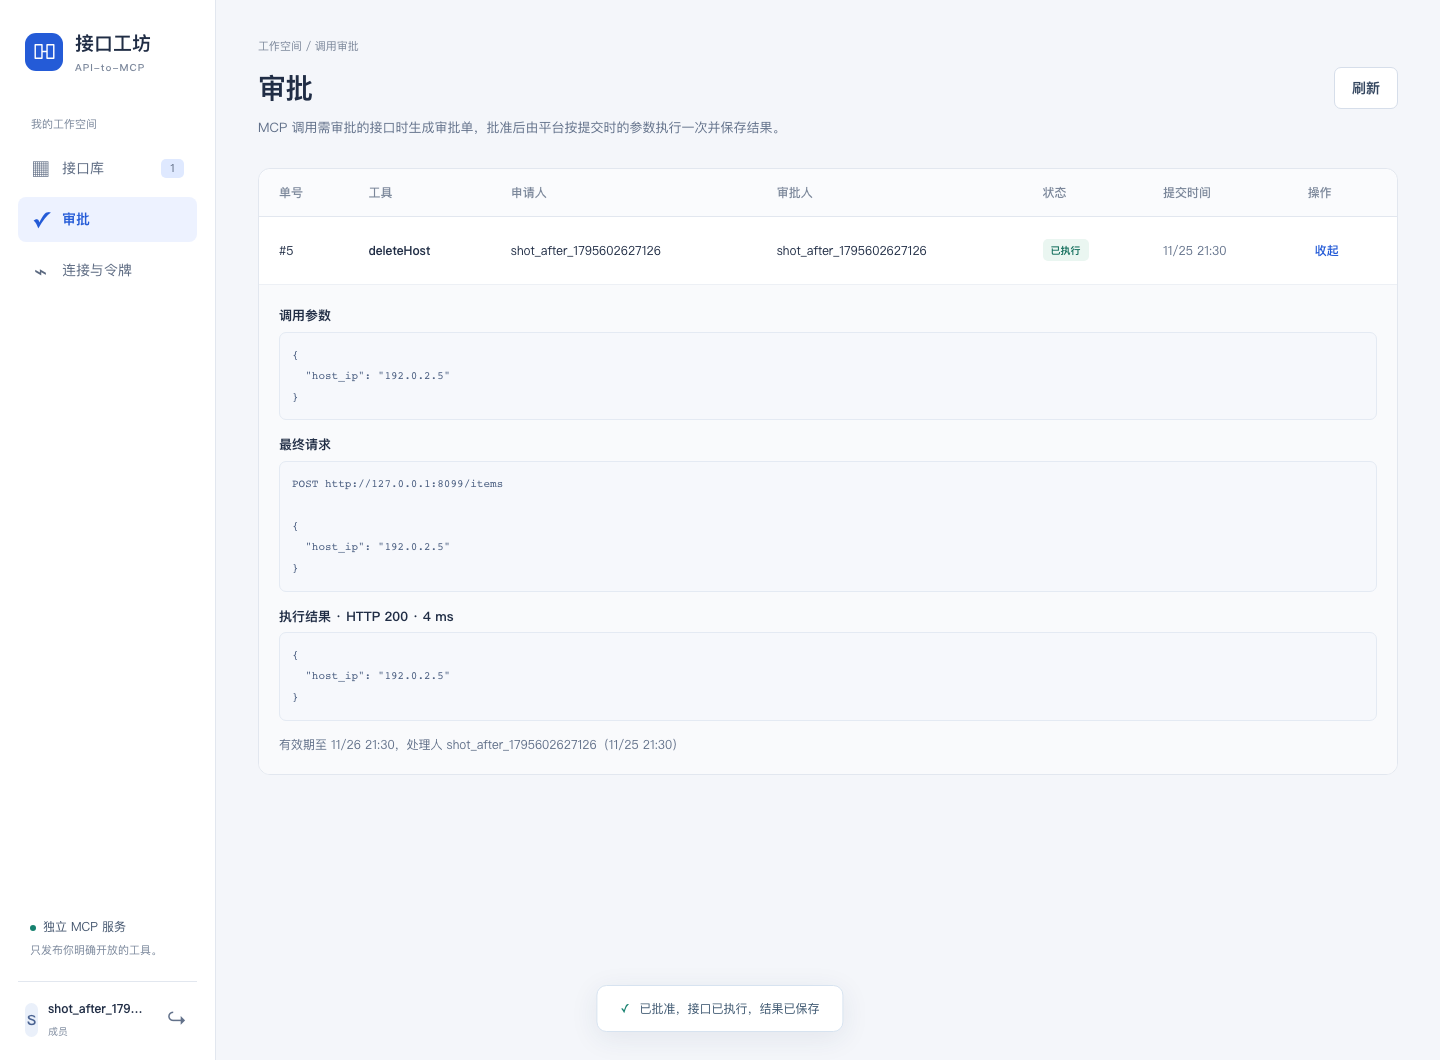
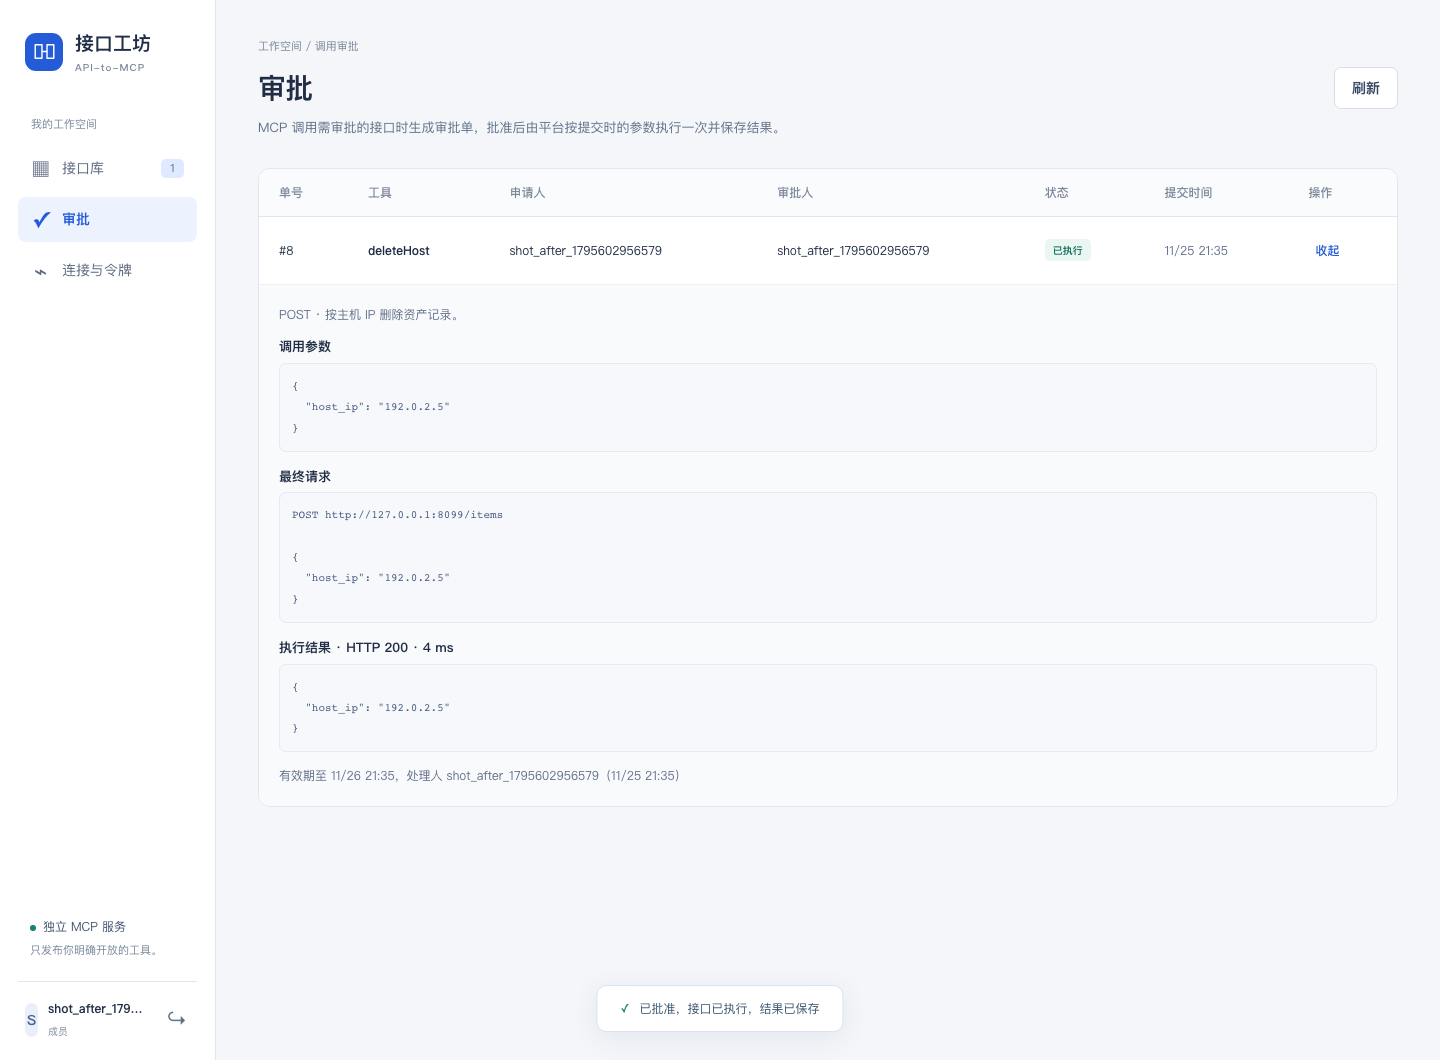
区分审批执行的未执行、结果未知与上游错误状态
请求发出后的失败标为结果未知，避免误导重新提交；审批列表不再读取加密参数和结果；详情向审批人展示方法与用途描述；补充签名校验与深链测试。

diff --git a/web/src/App.vue b/web/src/App.vue
@@ -28,7 +28,9 @@ const approvalStatus: Record<Approval["status"], [string, string]> = {
   rejected: ["已拒绝", "neutral"],
   executing: ["执行中，结果未知", "warning"],
   executed: ["已执行", "success"],
-  failed: ["未执行成功", "failure"],
+  upstream_error: ["已执行，上游返回错误", "failure"],
+  unknown: ["结果未知", "warning"],
+  failed: ["未执行", "failure"],
 };
 const allowedOrigins = ref<string[]>([]);
 const search = ref("");
@@ -309,8 +311,12 @@ async function decideApproval(item: Approval, approve: boolean) {
     });
     openApproval.value = detail;
     await loadApprovals();
-    notify(detail.status === "executed" ? "已批准，接口已执行，结果已保存"
-      : detail.status === "failed" ? "已批准，但接口未执行成功，请查看原因" : "已拒绝该审批单");
+    notify({
+      executed: "已批准，接口已执行，结果已保存",
+      upstream_error: "已批准并执行，上游返回错误，请查看结果",
+      unknown: "请求已发出但结果未知，请到上游核实",
+      failed: "已批准，但接口未执行，请查看原因",
+    }[detail.status as string] ?? "已拒绝该审批单");
   } catch (e) {
     error.value = message(e);
     await loadApprovals().catch(() => undefined);
@@ -1563,6 +1569,9 @@ onUnmounted(() => {
                 </tr>
                 <tr v-if="openApproval?.id === item.id" class="approval-detail">
                   <td colspan="7">
+                    <p v-if="openApproval.method || openApproval.description" class="muted">
+                      {{ openApproval.method }} · {{ openApproval.description }}
+                    </p>
                     <h3>调用参数</h3>
                     <pre>{{ JSON.stringify(openApproval.arguments, null, 2) }}</pre>
                     <template v-if="openApproval.request">

diff --git a/web/e2e/workbench.spec.ts b/web/e2e/workbench.spec.ts
@@ -489,5 +489,10 @@ test("开启调用审批后由页面批准并执行 MCP 调用", async ({ page }
   await expect(page.locator(".approval-detail")).toContainText("执行结果 · HTTP 200");
   await expect(page.locator(".approval-detail")).toContainText('"podIp": "10.60.144.190"');
   await expect(page.getByRole("button", { name: "批准并执行" })).toHaveCount(0);
+  await page.getByRole("button", { name: "接口库", exact: true }).click();
+  await page.goto("/#approvals");
+  await page.reload();
+  await expect(page.getByRole("heading", { name: "审批", exact: true })).toBeVisible();
+  await expect(page.getByText("已执行", { exact: true })).toBeVisible();
   expect(consoleErrors).toEqual([]);
 });

diff --git a/web/src/types.ts b/web/src/types.ts
@@ -38,9 +38,11 @@ export interface Approval {
   id: number;
   toolId: number | null;
   toolName: string;
+  method?: string;
+  description?: string;
   requester: string;
   approver: string;
-  status: "pending" | "expired" | "rejected" | "executing" | "executed" | "failed";
+  status: "pending" | "expired" | "rejected" | "executing" | "executed" | "upstream_error" | "unknown" | "failed";
   canDecide: boolean;
   decidedBy?: string;
   createdAt: string;

diff --git a/web/src/style.css b/web/src/style.css
@@ -733,7 +733,7 @@ tbody tr:last-child td {
   background: #fff0f3;
   color: #b83246;
 }
-.badge + .badge {
+.tool-table .badge + .badge {
   margin-left: 6px;
 }
 .badge.warning {
@@ -759,6 +759,9 @@ tbody tr:last-child td {
 }
 .approval-detail td {
   background: #f9fafc;
+}
+.approval-detail td > p:first-child {
+  margin: 0 0 12px;
 }
 .approval-detail h3 {
   margin: 0 0 6px;

diff --git a/internal/platform/approval.go b/internal/platform/approval.go
@@ -30,7 +30,7 @@ CREATE TABLE IF NOT EXISTS approvals (
  requester_id BIGINT NOT NULL REFERENCES users(id) ON DELETE CASCADE,
  approver_id BIGINT REFERENCES users(id) ON DELETE CASCADE,
  definition_hash BYTEA NOT NULL, arguments BYTEA NOT NULL,
- status TEXT NOT NULL DEFAULT 'pending' CHECK(status IN ('pending','rejected','executing','executed','failed')),
+ status TEXT NOT NULL DEFAULT 'pending' CHECK(status IN ('pending','rejected','executing','executed','upstream_error','unknown','failed')),
  outcome BYTEA, decided_by BIGINT REFERENCES users(id) ON DELETE SET NULL,
  created_at TIMESTAMPTZ NOT NULL DEFAULT now(), expires_at TIMESTAMPTZ NOT NULL,
  decided_at TIMESTAMPTZ, finished_at TIMESTAMPTZ
@@ -125,6 +125,8 @@ type Approval struct {
 	ID         int64      `json:"id"`
 	ToolID     *int64     `json:"toolId"`
 	ToolName   string     `json:"toolName"`
+	Method     string     `json:"method,omitempty"`
+	Purpose    string     `json:"description,omitempty"`
 	Requester  string     `json:"requester"`
 	Approver   string     `json:"approver"`
 	Status     string     `json:"status"`
@@ -150,12 +152,28 @@ type requestPreview struct {
 type approvalOutcome struct {
 	Result *CallResult `json:"result,omitempty"`
 	Error  string      `json:"error,omitempty"`
+	// Sent 表示请求已发往上游；此后出错时写操作可能已生效。
+	Sent bool `json:"-"`
 }
 
+// status 区分未执行、上游已执行但结果未知、上游返回错误和成功执行。
+func (o approvalOutcome) status() string {
+	switch {
+	case !o.Sent:
+		return "failed"
+	case o.Error != "":
+		return "unknown"
+	case o.Result.StatusCode < 200 || o.Result.StatusCode >= 300:
+		return "upstream_error"
+	}
+	return "executed"
+}
+
+// 列表不读取加密的参数与结果，只在详情中读取。
 const approvalColumns = `SELECT a.id,a.tool_id,a.tool_name,r.username,COALESCE(p.username,'管理员'),
  CASE WHEN a.status='pending' AND a.expires_at<=now() THEN 'expired' ELSE a.status END,
  COALESCE(a.status='pending' AND a.expires_at>now() AND (a.approver_id=$1 OR (a.approver_id IS NULL AND $2)),false),
- COALESCE(d.username,''),a.created_at,a.expires_at,a.decided_at,a.finished_at,a.arguments,a.outcome
+ COALESCE(d.username,''),a.created_at,a.expires_at,a.decided_at,a.finished_at,%s
  FROM approvals a JOIN users r ON r.id=a.requester_id LEFT JOIN users p ON p.id=a.approver_id LEFT JOIN users d ON d.id=a.decided_by
  WHERE (a.requester_id=$1 OR a.approver_id=$1 OR (a.approver_id IS NULL AND $2))`
 
@@ -172,7 +190,7 @@ func scanApproval(row scanner) (Approval, []byte, []byte, error) {
 func (a *App) approvals(w http.ResponseWriter, r *http.Request) {
 	u := currentUser(r)
 	// ponytail: 只返回最近 200 条，需要翻页时再加游标。
-	rows, err := a.db.Query(r.Context(), approvalColumns+" ORDER BY a.id DESC LIMIT 200", u.ID, u.Role == "admin")
+	rows, err := a.db.Query(r.Context(), fmt.Sprintf(approvalColumns, "NULL::bytea,NULL::bytea")+" ORDER BY a.id DESC LIMIT 200", u.ID, u.Role == "admin")
 	if err != nil {
 		fail(w, 500, "读取审批单失败")
 		return
@@ -196,7 +214,7 @@ func (a *App) approvals(w http.ResponseWriter, r *http.Request) {
 
 // approvalDetail 返回冻结参数、执行结果；只有接口管理者能看到最终请求地址与正文。
 func (a *App) approvalDetail(ctx context.Context, id int64, u User) (Approval, error) {
-	item, args, outcome, err := scanApproval(a.db.QueryRow(ctx, approvalColumns+" AND a.id=$3", u.ID, u.Role == "admin", id))
+	item, args, outcome, err := scanApproval(a.db.QueryRow(ctx, fmt.Sprintf(approvalColumns, "a.arguments,a.outcome")+" AND a.id=$3", u.ID, u.Role == "admin", id))
 	if err != nil {
 		return item, err
 	}
@@ -215,6 +233,10 @@ func (a *App) approvalDetail(ctx context.Context, id int64, u User) (Approval, e
 		item.Result, item.Error = o.Result, o.Error
 	}
 	if item.ToolID != nil {
+		// 方法和用途描述对能看到审批单的人公开；最终请求只给接口维护者。
+		if tool, err := a.getTool(ctx, *item.ToolID, User{Role: "admin"}, false); err == nil {
+			item.Method, item.Purpose = tool.Method, tool.Description
+		}
 		if tool, err := a.getTool(ctx, *item.ToolID, u, false); err == nil && tool.manageableBy(u) {
 			var values map[string]any
 			if json.Unmarshal(item.Arguments, &values) == nil {
@@ -294,10 +316,7 @@ func (a *App) decide(w http.ResponseWriter, r *http.Request) {
 		// 审批人关闭页面也不能中断已开始的写请求。
 		ctx := context.WithoutCancel(r.Context())
 		outcome := a.runApproval(ctx, toolID, requesterID, hash, sealed)
-		status := "executed"
-		if outcome.Error != "" {
-			status = "failed"
-		}
+		status := outcome.status()
 		data, _ := json.Marshal(outcome)
 		stored, err := a.seal(data)
 		if err == nil {
@@ -343,11 +362,14 @@ func (a *App) runApproval(ctx context.Context, toolID *int64, requesterID int64,
 	if err != nil {
 		return approvalOutcome{Error: "审批参数无法读取，未执行"}
 	}
+	if _, err := a.prepare(tool.Definition, args); err != nil {
+		return approvalOutcome{Error: err.Error() + "，未执行"}
+	}
 	result, err := a.execute(ctx, tool.Definition, args)
 	if err != nil {
-		return approvalOutcome{Error: err.Error()}
+		return approvalOutcome{Sent: true, Error: "请求已发往上游，结果未知：" + err.Error() + "。请到上游核实，不要直接重新提交"}
 	}
-	return approvalOutcome{Result: &result}
+	return approvalOutcome{Sent: true, Result: &result}
 }
 
 type approvalNotice struct {

diff --git a/internal/platform/integration_test.go b/internal/platform/integration_test.go
@@ -3,6 +3,8 @@ package platform
 import (
 	"bytes"
 	"context"
+	"crypto/hmac"
+	"crypto/sha256"
 	"encoding/base64"
 	"encoding/json"
 	"fmt"
@@ -507,7 +509,8 @@ func TestPlatformIntegration(t *testing.T) {
 			select {
 			case notice := <-notices:
 				text, _ := json.Marshal(notice)
-				if notice["sign"] == "" || !strings.Contains(string(text), fmt.Sprintf("#%d", out.ApprovalID)) || !strings.Contains(string(text), "https://workbench.example/#approvals") ||
+				mac := hmac.New(sha256.New, []byte(fmt.Sprint(notice["timestamp"])+"\nsign-secret"))
+				if notice["sign"] != base64.StdEncoding.EncodeToString(mac.Sum(nil)) || !strings.Contains(string(text), fmt.Sprintf("#%d", out.ApprovalID)) || !strings.Contains(string(text), "https://workbench.example/#approvals") ||
 					strings.Contains(string(text), "192.0.2.") || strings.Contains(string(text), upstream.URL) || strings.Contains(string(text), "private-upstream-secret") {
 					t.Fatalf("飞书通知内容不符合预期：%s", text)
 				}
@@ -531,14 +534,14 @@ func TestPlatformIntegration(t *testing.T) {
 		}
 		var items []Approval
 		check(alice, "GET", "/api/approvals", nil, &items, 200)
-		if len(items) != 1 || items[0].Status != "pending" || items[0].CanDecide || items[0].Approver != "bob" || items[0].Arguments != nil {
+		if len(items) != 1 || items[0].Status != "pending" || items[0].CanDecide || items[0].Approver != "bob" || items[0].Arguments != nil || items[0].Result != nil {
 			t.Fatalf("申请人看到的审批单错误：%+v", items)
 		}
 		decide(alice, first, true, 409)
 		decide(admin, first, true, 404)
 		var detail Approval
 		check(bob, "GET", fmt.Sprintf("/api/approvals/%d", first), nil, &detail, 200)
-		if !detail.CanDecide || !strings.Contains(string(detail.Arguments), "192.0.2.9") || detail.Request != nil {
+		if !detail.CanDecide || !strings.Contains(string(detail.Arguments), "192.0.2.9") || detail.Request != nil || detail.Method != "POST" || detail.Purpose != write.Description {
 			t.Fatalf("审批人详情错误：%+v", detail)
 		}
 		check(alice, "GET", fmt.Sprintf("/api/approvals/%d", first), nil, &detail, 200)
@@ -585,6 +588,15 @@ func TestPlatformIntegration(t *testing.T) {
 		if item := decide(alice, own, true, 200); item.Status != "executed" || approvedCalls.Load() != 3 {
 			t.Fatalf("本人审批未执行：%+v", item)
 		}
+		check(alice, "POST", toolPath+"/publish", map[string]bool{"published": false}, nil, 200)
+		unmapped := write
+		unmapped.OutputFields = []OutputField{{Name: "missing", Source: "response", Value: "/missing"}}
+		check(alice, "PUT", toolPath, unmapped, nil, 200)
+		check(alice, "POST", toolPath+"/publish", map[string]bool{"published": true}, nil, 200)
+		sent := submit(session, write.Name, map[string]any{"host_ip": "192.0.2.16"})
+		if item := decide(alice, sent, true, 200); item.Status != "unknown" || !strings.Contains(item.Error, "结果未知") || strings.Contains(item.Error, "未执行") || approvedCalls.Load() != 4 {
+			t.Fatalf("请求发出后的失败应标为结果未知：%+v，上游 %d 次", item, approvedCalls.Load())
+		}
 
 		shared := write
 		shared.Name, shared.Approval = "sharedWrite", &ApprovalRule{Approver: "admin"}
@@ -603,7 +615,7 @@ func TestPlatformIntegration(t *testing.T) {
 		}
 		adminTicket := submit(bobSession, fmt.Sprintf("sharedWrite.public.%d", sharedRecord.ID), map[string]any{"host_ip": "192.0.2.15"})
 		decide(bob, adminTicket, true, 409)
-		if item := decide(admin, adminTicket, true, 200); item.Status != "executed" || item.Approver != "管理员" || item.DecidedBy != "admin" || approvedCalls.Load() != 4 {
+		if item := decide(admin, adminTicket, true, 200); item.Status != "executed" || item.Approver != "管理员" || item.DecidedBy != "admin" || approvedCalls.Load() != 5 {
 			t.Fatalf("管理员审批未执行：%+v", item)
 		}
 		var stored []byte

diff --git a/internal/platform/approval_test.go b/internal/platform/approval_test.go
@@ -1,0 +1,16 @@
+package platform
+
+import "testing"
+
+func TestApprovalOutcomeStatus(t *testing.T) {
+	for want, outcome := range map[string]approvalOutcome{
+		"failed":         {Error: "接口已停用，未执行"},
+		"unknown":        {Sent: true, Error: "请求已发往上游，结果未知"},
+		"upstream_error": {Sent: true, Result: &CallResult{StatusCode: 502}},
+		"executed":       {Sent: true, Result: &CallResult{StatusCode: 201}},
+	} {
+		if got := outcome.status(); got != want {
+			t.Errorf("%+v 的状态为 %s，预期 %s", outcome, got, want)
+		}
+	}
+}

diff --git a/README.md b/README.md
@@ -128,7 +128,9 @@ UPSTREAM_ORIGINS=https://api.example.com
 
 审批单 24 小时内有效，过期、被拒绝或已处理的单子不能再批准。执行前会复核：接口仍处于发布状态、接口配置与提交时完全一致、申请人账户未停用且仍有调用权限。任一条件不满足时不访问上游，并在审批单上记录原因，需要重新提交。仅停用后重新发布、未改配置时，审批单仍然有效。
 
-调用参数和执行结果加密存储。删除接口后，已有审批单保留工具名和处理记录。若执行过程中服务中断，审批单会停在「执行中，结果未知」，平台不会自动重试，请到上游核实。
+审批单状态：复核未通过时为「未执行」；上游返回非 2xx 时为「已执行，上游返回错误」；请求发出后超时、响应过大或输出字段映射失败时为「结果未知」，写操作可能已生效，请先到上游核实，不要直接重新提交。若执行过程中服务中断，审批单会停在「执行中，结果未知」。平台不会自动重试写请求。
+
+调用参数和执行结果加密存储。删除接口后，已有审批单保留工具名和处理记录。
 
 接口维护者（所有者和管理员）在编辑页调试时直接发送请求，不经过审批。其他成员调用需审批的公共接口时，只能通过 MCP 提交审批，不能从调试页直接发送。
 
